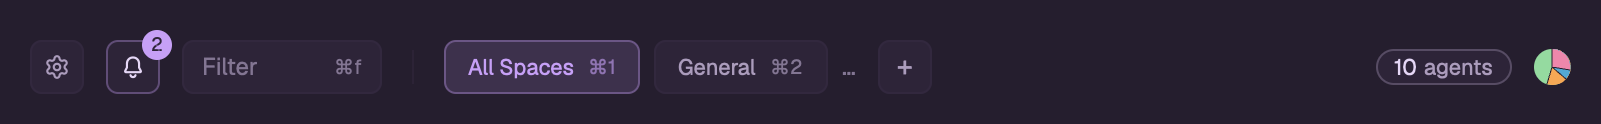
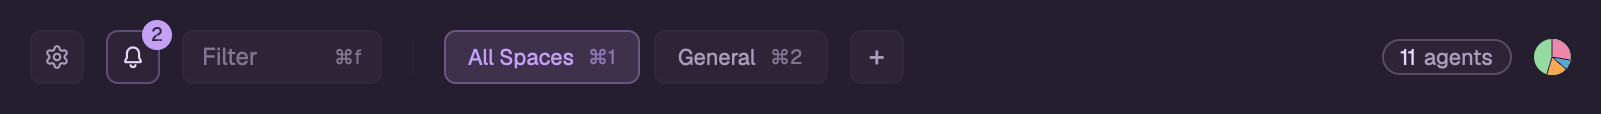
Top bar editor: no … after the spaces; README shot padded from the bar items

diff --git a/veroboard/mods/veroboard/settings.js b/veroboard/mods/veroboard/settings.js
@@ -583,14 +583,13 @@ export class SettingsPanel {
 
   // The top bar's example: the same pieces as the board's bar, with your spaces and agent count, made inert.
   topExample(t) {
-    // All Spaces and your first space only, then a dim … when there are more: the editor needs room to move things
-    // around in (user, 2026-11-18).
+    // All Spaces and your first space only: the editor needs room to move things around in (user, 2026-11-18). No … for
+    // the rest (user, 2026-11-19: it's an example; that there are more is obvious).
     const shown = spaces().slice(0, 1);
     return {
       spaces: h_flex().gap(7).items_center()
         .child(chip(t, "All Spaces", true, hint("veroboard.all")))
-        .children(shown.map((s, i) => chip(t, s.name, false, hint(`veroboard.space${i + 1}`))))
-        .when(spaces().length > shown.length, (el) => el.child(div().text_size(12).text_color(t.dim).child("…"))),
+        .children(shown.map((s, i) => chip(t, s.name, false, hint(`veroboard.space${i + 1}`)))),
       newSpace: newSpaceButton(t),
       count: statPill(t, [[String(agents().length), word(agents().length, "agent")]]),
       pie: pie([{ color: t.blocked, n: 3 }, { color: "#55a9d3", n: 1 }, { color: t.working, n: 2 }, { color: t.done, n: 5 }], 18, (c) => c, t.chrome),
